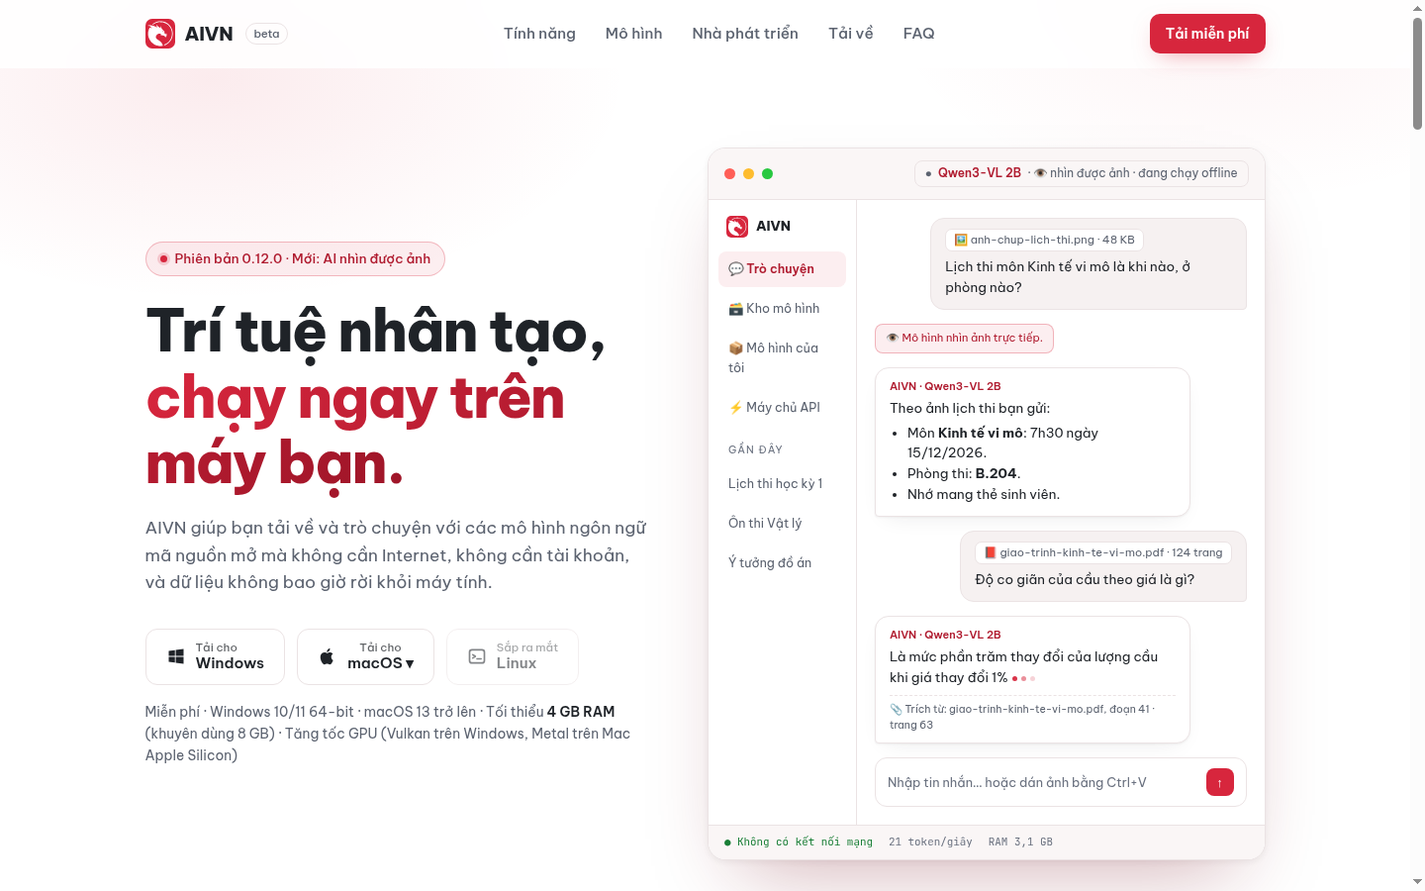
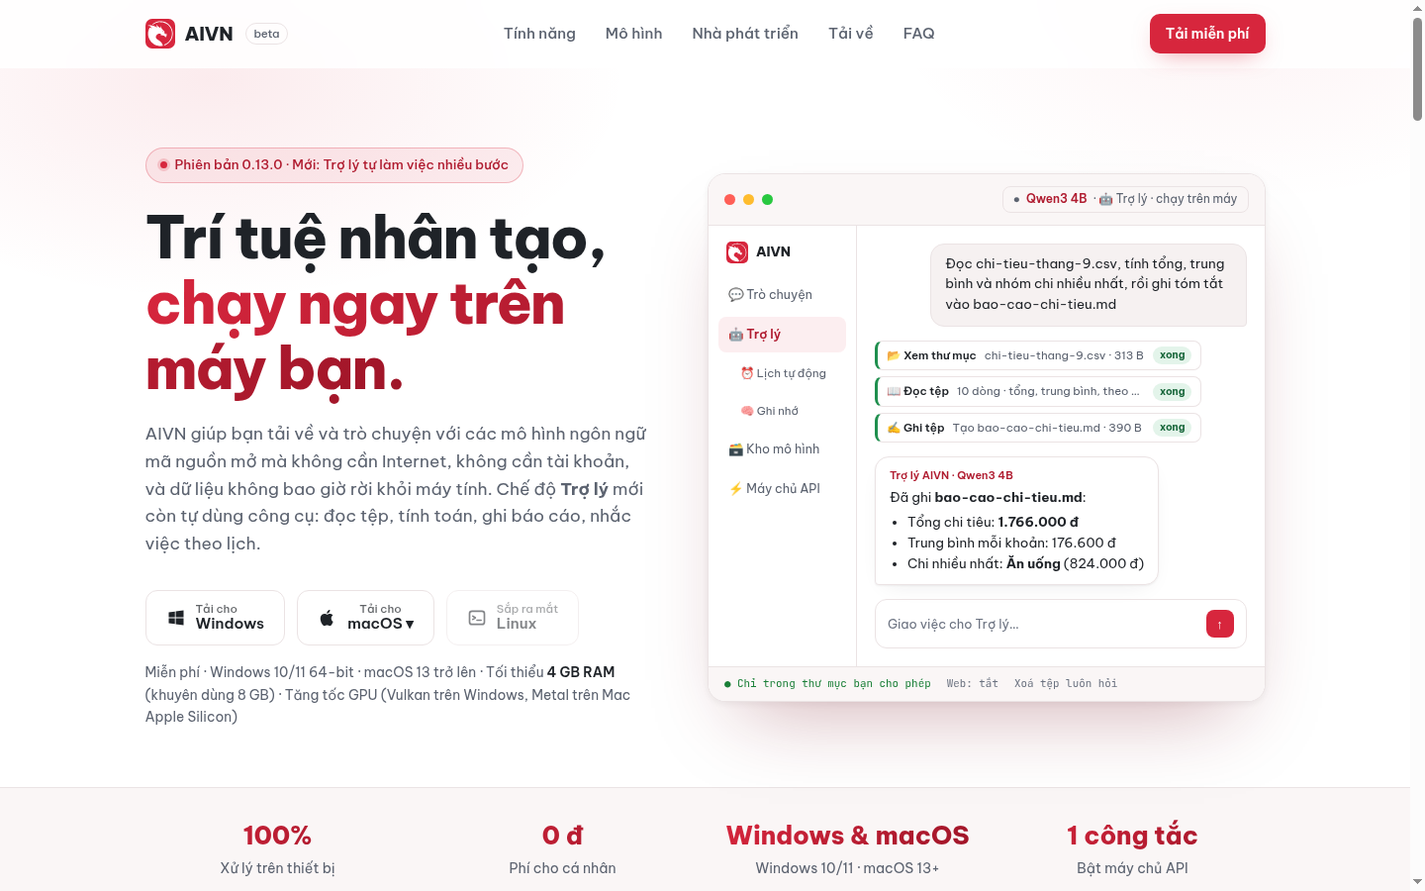
Landing page 0.13.0, memory header fix, previews

diff --git a/site/index.html b/site/index.html
@@ -116,6 +116,7 @@ header.scrolled{border-color:var(--line)}
 .strip span{color:var(--muted);font-size:.88rem}
 
 /* features */
+.new-tag{display:inline-block;vertical-align:middle;font-size:.62rem;font-weight:700;color:#fff;background:var(--accent);border-radius:99px;padding:2px 7px;margin-left:4px;letter-spacing:.02em}
 .feat-grid{display:grid;grid-template-columns:repeat(3,1fr);gap:20px;margin-top:48px}
 .feat{background:var(--card);border:1px solid var(--line);border-radius:var(--radius);padding:28px;transition:transform .3s,border-color .3s}
 .feat:hover{transform:translateY(-4px);border-color:rgba(215,38,61,.35)}
@@ -232,6 +233,12 @@ footer{border-top:1px solid var(--line);padding:56px 0 32px;background:var(--bg2
 .app-side .s-brand{display:flex;align-items:center;gap:8px;font-weight:800;font-size:.85rem;padding:2px 8px 10px}
 .app-side .s-brand img{width:22px;height:22px}
 .src-line{display:block;margin-top:6px;padding-top:5px;border-top:1px dashed var(--line);font-size:.66rem;color:var(--muted)}
+.app-side .s-item.sub{padding-left:22px;font-size:.92em}
+.steps-mock{display:flex;flex-direction:column;gap:6px;align-self:flex-start;width:88%}
+.steps-mock .st{display:flex;align-items:center;gap:8px;background:#fff;border:1px solid var(--line);border-left:3px solid #1f8f4e;border-radius:8px;padding:5px 9px;font-size:.72rem}
+.steps-mock .st span{font-weight:600;white-space:nowrap}
+.steps-mock .st em{font-style:normal;color:var(--muted);flex:1;overflow:hidden;text-overflow:ellipsis;white-space:nowrap}
+.steps-mock .st b{font-size:.64rem;color:#17663a;background:#e3f4ea;border-radius:99px;padding:1px 7px}
 .ocr-note{align-self:flex-start;font-size:.7rem;color:var(--accent-ink);background:var(--accent-soft);border:1px solid rgba(215,38,61,.3);border-radius:8px;padding:5px 10px;max-width:86%}
 a.inline,.ans a{color:var(--accent-ink);text-decoration:underline}
 .cta .dl-btn:not(.detected):not([aria-disabled=true]):not(.soon){border-color:var(--accent);color:var(--accent-ink)}
@@ -275,9 +282,9 @@ a.inline,.ans a{color:var(--accent-ink);text-decoration:underline}
 <section class="hero">
   <div class="wrap hero-grid">
     <div>
-      <span class="badge"><span class="dot"></span>Phiên bản 0.12.0 · Mới: AI nhìn được ảnh</span>
+      <span class="badge"><span class="dot"></span>Phiên bản 0.13.0 · Mới: Trợ lý tự làm việc nhiều bước</span>
       <h1>Trí tuệ nhân tạo,<br><span class="grad-text">chạy ngay trên máy bạn.</span></h1>
-      <p class="lead">AIVN giúp bạn tải về và trò chuyện với các mô hình ngôn ngữ mã nguồn mở mà không cần Internet, không cần tài khoản, và dữ liệu không bao giờ rời khỏi máy tính.</p>
+      <p class="lead">AIVN giúp bạn tải về và trò chuyện với các mô hình ngôn ngữ mã nguồn mở mà không cần Internet, không cần tài khoản, và dữ liệu không bao giờ rời khỏi máy tính. Chế độ <b>Trợ lý</b> mới còn tự dùng công cụ: đọc tệp, tính toán, ghi báo cáo, nhắc việc theo lịch.</p>
       <div class="dl-row" id="tai-ve">
         <a href="AIVN-Setup.exe" download class="btn dl-btn" data-os="windows" title="Tải bộ cài AIVN cho Windows 10/11 (64-bit, ~233 MB)">
           <svg width="20" height="20" viewBox="0 0 24 24" fill="currentColor"><path d="M3 5.5 10.5 4.5v7H3zM11.5 4.3 21 3v8.5h-9.5zM3 12.5h7.5v7L3 18.5zM11.5 12.5H21V21l-9.5-1.3z"/></svg>
@@ -303,34 +310,34 @@ a.inline,.ans a{color:var(--accent-ink);text-decoration:underline}
     </div>
 
     <!-- mock app window -->
-    <div class="app" aria-label="Minh họa giao diện ứng dụng AIVN">
+    <div class="app" aria-label="Minh họa chế độ Trợ lý của AIVN">
       <div class="app-bar"><i></i><i></i><i></i>
-        <span class="model-pill">● <b>Qwen3-VL 2B</b> · 👁 nhìn được ảnh · đang chạy offline</span>
+        <span class="model-pill">● <b>Qwen3 4B</b> · 🤖 Trợ lý · chạy trên máy</span>
       </div>
       <div class="app-body">
         <aside class="app-side">
           <div class="s-brand"><img src="favicon.svg" alt="">AIVN</div>
-          <div class="s-item on">💬 Trò chuyện</div>
+          <div class="s-item">💬 Trò chuyện</div>
+          <div class="s-item on">🤖 Trợ lý</div>
+          <div class="s-item sub">⏰ Lịch tự động</div>
+          <div class="s-item sub">🧠 Ghi nhớ</div>
           <div class="s-item">🗃 Kho mô hình</div>
-          <div class="s-item">📦 Mô hình của tôi</div>
           <div class="s-item">⚡ Máy chủ API</div>
-          <div class="s-title">Gần đây</div>
-          <div class="s-item">Lịch thi học kỳ 1</div>
-          <div class="s-item">Ôn thi Vật lý</div>
-          <div class="s-item">Ý tưởng đồ án</div>
         </aside>
         <div class="app-chat">
-          <div class="msg u"><span class="att-chip">🖼 anh-chup-lich-thi.png · 48 KB</span>Lịch thi môn Kinh tế vi mô là khi nào, ở phòng nào?</div>
-          <div class="ocr-note">👁 Mô hình nhìn ảnh trực tiếp.</div>
-          <div class="msg a"><span class="who">AIVN · Qwen3-VL 2B</span>Theo ảnh lịch thi bạn gửi:
-            <ul><li>Môn <b>Kinh tế vi mô</b>: 7h30 ngày 15/12/2026.</li><li>Phòng thi: <b>B.204</b>.</li><li>Nhớ mang thẻ sinh viên.</li></ul>
+          <div class="msg u">Đọc chi-tieu-thang-9.csv, tính tổng, trung bình và nhóm chi nhiều nhất, rồi ghi tóm tắt vào bao-cao-chi-tieu.md</div>
+          <div class="steps-mock">
+            <div class="st"><span>📂 Xem thư mục</span><em>chi-tieu-thang-9.csv · 313 B</em><b>xong</b></div>
+            <div class="st"><span>📖 Đọc tệp</span><em>10 dòng · tổng, trung bình, theo nhóm</em><b>xong</b></div>
+            <div class="st"><span>✍ Ghi tệp</span><em>Tạo bao-cao-chi-tieu.md · 390 B</em><b>xong</b></div>
           </div>
-          <div class="msg u"><span class="att-chip">📕 giao-trinh-kinh-te-vi-mo.pdf · 124 trang</span>Độ co giãn của cầu theo giá là gì?</div>
-          <div class="msg a"><span class="who">AIVN · Qwen3-VL 2B</span>Là mức phần trăm thay đổi của lượng cầu khi giá thay đổi 1%<span class="typing"><span></span><span></span><span></span></span><span class="src-line">📎 Trích từ: giao-trinh-kinh-te-vi-mo.pdf, đoạn 41 · trang 63</span></div>
-          <div class="app-input">Nhập tin nhắn… hoặc dán ảnh bằng Ctrl+V<span class="send">↑</span></div>
+          <div class="msg a"><span class="who">Trợ lý AIVN · Qwen3 4B</span>Đã ghi <b>bao-cao-chi-tieu.md</b>:
+            <ul><li>Tổng chi tiêu: <b>1.766.000 đ</b></li><li>Trung bình mỗi khoản: 176.600 đ</li><li>Chi nhiều nhất: <b>Ăn uống</b> (824.000 đ)</li></ul>
+          </div>
+          <div class="app-input">Giao việc cho Trợ lý…<span class="send">↑</span></div>
         </div>
       </div>
-      <div class="app-status"><span class="ok">● Không có kết nối mạng</span><span>21 token/giây</span><span>RAM 3,1 GB</span></div>
+      <div class="app-status"><span class="ok">● Chỉ trong thư mục bạn cho phép</span><span>Web: tắt</span><span>Xoá tệp luôn hỏi</span></div>
     </div>
   </div>
 </section>
@@ -353,12 +360,15 @@ a.inline,.ans a{color:var(--accent-ink);text-decoration:underline}
       <p class="lead">Không cần biết lập trình. Mở ứng dụng, chọn mô hình, bắt đầu hỏi. Khi muốn nâng cao, mọi tùy chỉnh đều nằm trong tầm tay.</p>
     </div>
     <div class="feat-grid">
+      <div class="feat reveal"><div class="ico"><svg width="22" height="22" viewBox="0 0 24 24" fill="none" stroke="currentColor" stroke-width="2" stroke-linecap="round" stroke-linejoin="round"><rect x="4" y="7" width="16" height="12" rx="3"/><path d="M12 3v4M9 12h.01M15 12h.01M9 16h6"/></svg></div><h3>Trợ lý tự làm nhiều bước <span class="new-tag">Mới</span></h3><p>Giao việc, Trợ lý tự chọn công cụ: máy tính, ngày giờ, đọc PDF/DOCX/CSV, ghi tệp, chạy JavaScript trong hộp cát (Python nếu máy có). Mỗi bước hiện thành thẻ để bạn xem công cụ, đầu vào và kết quả; có nút Dừng. Chạy hoàn toàn bằng mô hình trên máy, hợp nhất với Qwen3 4B/8B hoặc Gemma 3 4B trở lên.</p></div>
+      <div class="feat reveal"><div class="ico"><svg width="22" height="22" viewBox="0 0 24 24" fill="none" stroke="currentColor" stroke-width="2" stroke-linecap="round" stroke-linejoin="round"><path d="M12 3 4 6v6c0 4.5 3.4 8.3 8 9 4.6-.7 8-4.5 8-9V6z"/><path d="m9 12 2 2 4-4"/></svg></div><h3>An toàn theo mặc định <span class="new-tag">Mới</span></h3><p>Trợ lý chỉ đọc và ghi trong những thư mục bạn cho phép. Xoá hoặc ghi đè tệp luôn hỏi bạn bằng hộp thoại tiếng Việt, và xoá chỉ chuyển vào Thùng rác. Tìm kiếm web (DuckDuckGo, Wikipedia) chỉ chạy khi bạn bật “Cho phép truy cập mạng”, mọi địa chỉ đã mở đều được ghi lại.</p></div>
+      <div class="feat reveal"><div class="ico"><svg width="22" height="22" viewBox="0 0 24 24" fill="none" stroke="currentColor" stroke-width="2" stroke-linecap="round" stroke-linejoin="round"><circle cx="12" cy="13" r="8"/><path d="M12 9v4l2.5 2.5M5 3 2 6M19 3l3 3"/></svg></div><h3>Ghi nhớ và Lịch tự động <span class="new-tag">Mới</span></h3><p>Nói “hãy nhớ…”, Trợ lý ghi lại và dùng ở các cuộc trò chuyện sau; trang Ghi nhớ cho bạn xem, sửa, xoá. Lịch tự động nhắc việc hoặc giao việc cho Trợ lý một lần, hằng ngày, hằng tuần, hiện thông báo của hệ điều hành và lưu kết quả. Có thể chạy nền trong khay hệ thống.</p></div>
       <div class="feat reveal"><div class="ico"><svg width="22" height="22" viewBox="0 0 24 24" fill="none" stroke="currentColor" stroke-width="2" stroke-linecap="round" stroke-linejoin="round"><path d="M12 3v12m0 0-4-4m4 4 4-4M4 19h16"/></svg></div><h3>Kho mô hình: mọi GGUF trên Hugging Face</h3><p>Tìm trực tiếp các kho GGUF công khai trên Hugging Face, sắp xếp theo lượt tải, mới nhất hoặc lượt thích, kèm 29 gợi ý đã kiểm tra sẵn. AIVN gợi ý bản lượng tử Q4_K_M, báo mô hình có vừa RAM máy bạn không, và gắn nhãn “Nhìn được ảnh” cho mô hình có tệp thị giác. Tải có hàng đợi, tạm dừng và tải tiếp được.</p></div>
       <div class="feat reveal"><div class="ico"><svg width="22" height="22" viewBox="0 0 24 24" fill="none" stroke="currentColor" stroke-width="2" stroke-linecap="round" stroke-linejoin="round"><path d="M2 12s3.6-7 10-7 10 7 10 7-3.6 7-10 7S2 12 2 12z"/><circle cx="12" cy="12" r="3"/></svg></div><h3>Mô hình nhìn được ảnh</h3><p>Dán ảnh bằng Ctrl+V / Cmd+V hoặc kéo thả, mô hình thị giác như Qwen3-VL, Qwen2.5-VL, Gemma 3 4B hay SmolVLM xem trực tiếp bức ảnh: mô tả hình vẽ, đọc biểu đồ, giải thích ảnh chụp màn hình. AIVN tự tải kèm tệp thị giác (mmproj) và chạy bằng llama.cpp ngay trên máy.</p></div>
       <div class="feat reveal"><div class="ico"><svg width="22" height="22" viewBox="0 0 24 24" fill="none" stroke="currentColor" stroke-width="2" stroke-linecap="round" stroke-linejoin="round"><path d="M14 3H6a2 2 0 0 0-2 2v14a2 2 0 0 0 2 2h12a2 2 0 0 0 2-2V9z"/><path d="M14 3v6h6M8 14h8M8 18h5"/></svg></div><h3>Hỏi đáp tài liệu dài, có ghi nguồn</h3><p>Gửi PDF, DOCX, TXT/MD/CSV hay tệp mã nguồn (tối đa 20 MB). AIVN chia tài liệu thành đoạn, tìm theo ý nghĩa bằng mô hình BGE-M3 chạy trên máy, chỉ đưa đoạn liên quan cho mô hình và ghi “Trích từ: tệp, đoạn n” dưới câu trả lời. Hỏi tiếp không cần gửi lại tệp.</p></div>
       <div class="feat reveal"><div class="ico"><svg width="22" height="22" viewBox="0 0 24 24" fill="none" stroke="currentColor" stroke-width="2" stroke-linecap="round" stroke-linejoin="round"><rect x="3" y="5" width="18" height="14" rx="2"/><path d="M7 9h10M7 13h6"/></svg></div><h3>Đọc chữ trong ảnh, không cần mạng</h3><p>Mô hình chỉ có chữ vẫn dùng được ảnh: AIVN đọc chữ trong ảnh chụp màn hình, lịch thi, hoá đơn bằng OCR tiếng Việt và tiếng Anh ngay trên máy, rồi ghi rõ phần nào là chữ đọc từ ảnh.</p></div>
       <div class="feat reveal"><div class="ico"><svg width="22" height="22" viewBox="0 0 24 24" fill="none" stroke="currentColor" stroke-width="2" stroke-linecap="round" stroke-linejoin="round"><path d="M21 12a8 8 0 0 1-11.6 7.1L4 20l1-4.6A8 8 0 1 1 21 12z"/></svg></div><h3>Trò chuyện riêng tư</h3><p>Lịch sử lưu ngay trên máy. Tùy chỉnh lời nhắc hệ thống, nhiệt độ, độ dài ngữ cảnh, có nút Dừng khi trả lời quá dài và nút sao chép câu trả lời.</p></div>
-      <div class="feat reveal"><div class="ico"><svg width="22" height="22" viewBox="0 0 24 24" fill="none" stroke="currentColor" stroke-width="2" stroke-linecap="round" stroke-linejoin="round"><path d="m8 9-4 3 4 3M16 9l4 3-4 3M14 5l-4 14"/></svg></div><h3>Máy chủ API tương thích OpenAI</h3><p>Biến máy tính thành máy chủ AI nội bộ: /v1/chat/completions (gửi được ảnh cho mô hình thị giác), /v1/models và /v1/embeddings để tạo vector cho ứng dụng tìm kiếm của bạn. Thư viện quen thuộc kết nối được ngay, chỉ cần đổi địa chỉ.</p></div>
+      <div class="feat reveal"><div class="ico"><svg width="22" height="22" viewBox="0 0 24 24" fill="none" stroke="currentColor" stroke-width="2" stroke-linecap="round" stroke-linejoin="round"><path d="m8 9-4 3 4 3M16 9l4 3-4 3M14 5l-4 14"/></svg></div><h3>Máy chủ API tương thích OpenAI</h3><p>Biến máy tính thành máy chủ AI nội bộ: /v1/chat/completions (gọi hàm qua tools, JSON theo schema, gửi được ảnh cho mô hình thị giác), /v1/models và /v1/embeddings để tạo vector cho ứng dụng tìm kiếm của bạn. Thư viện quen thuộc kết nối được ngay, chỉ cần đổi địa chỉ.</p></div>
       <div class="feat reveal"><div class="ico"><svg width="22" height="22" viewBox="0 0 24 24" fill="none" stroke="currentColor" stroke-width="2" stroke-linecap="round" stroke-linejoin="round"><rect x="4" y="4" width="16" height="16" rx="2"/><path d="M9 9h6v6H9zM9 1v3M15 1v3M9 20v3M15 20v3M1 9h3M1 15h3M20 9h3M20 15h3"/></svg></div><h3>Tận dụng phần cứng</h3><p>Tự dùng GPU để tăng tốc: Vulkan (NVIDIA, AMD, Intel) trên Windows, Metal trên Mac Apple Silicon. Không có GPU vẫn chạy được bằng CPU.</p></div>
       <div class="feat reveal"><div class="ico"><svg width="22" height="22" viewBox="0 0 24 24" fill="none" stroke="currentColor" stroke-width="2" stroke-linecap="round" stroke-linejoin="round"><circle cx="12" cy="12" r="4"/><path d="M12 2v2M12 20v2M4.9 4.9l1.4 1.4M17.7 17.7l1.4 1.4M2 12h2M20 12h2M4.9 19.1l1.4-1.4M17.7 6.3l1.4-1.4"/></svg></div><h3>Giao diện Sáng / Tối</h3><p>Giao diện đỏ–trắng dễ đọc, có chế độ Tối và Tự động theo hệ điều hành. Đổi chế độ mượt mà với hiệu ứng lan tròn, mở ứng dụng không bị nháy màu, tôn trọng thiết lập “giảm chuyển động”.</p></div>
       <div class="feat reveal"><div class="ico"><svg width="22" height="22" viewBox="0 0 24 24" fill="none" stroke="currentColor" stroke-width="2" stroke-linecap="round" stroke-linejoin="round"><path d="M21 12a9 9 0 0 1-15.5 6.2L3 16"/><path d="M3 21v-5h5"/><path d="M3 12a9 9 0 0 1 15.5-6.2L21 8"/><path d="M21 3v5h-5"/></svg></div><h3>Tự động cập nhật</h3><p>AIVN tự kiểm tra bản mới khi mở. Trên Windows chỉ cần bấm Tải về rồi Khởi động lại; trên Mac, AIVN báo có bản mới và mở trang tải về.</p></div>
@@ -449,6 +459,7 @@ a.inline,.ans a{color:var(--accent-ink);text-decoration:underline}
       <p class="lead">Bật công tắc trong mục “Máy chủ API” và gọi mô hình qua định dạng tương thích OpenAI Chat Completions. Chỉ cần đổi base URL sang localhost.</p>
       <ul class="checks">
         <li>Ba endpoint: /v1/chat/completions, /v1/models và /v1/embeddings</li>
+        <li>Gọi hàm kiểu OpenAI: "tools", "tool_choice" (auto, none, required, tên hàm), trả "tool_calls"; "response_format" json_schema ép đầu ra đúng JSON</li>
         <li>Hỗ trợ trả kết quả dạng luồng (streaming, "stream": true) và gửi ảnh (image_url) cho mô hình nhìn ảnh</li>
         <li>Gọi được từ Python (thư viện openai), JavaScript, cURL</li>
         <li>Chạy hoàn toàn nội bộ, không cần khóa API trả phí</li>
@@ -476,7 +487,14 @@ a.inline,.ans a{color:var(--accent-ink);text-decoration:underline}
 <span class="c"># Tạo vector (embeddings) bằng BGE-M3 chạy trên máy</span>
 <span class="f">curl</span> http://localhost:1234/v1/embeddings \
   -H <span class="s">"Content-Type: application/json"</span> \
-  -d <span class="s">'{"model": "bge-m3-q8_0", "input": ["Xin chào", "Hà Nội"]}'</span></pre>
+  -d <span class="s">'{"model": "bge-m3-q8_0", "input": ["Xin chào", "Hà Nội"]}'</span>
+
+<span class="c"># Gọi hàm (tools): mô hình trả về tool_calls get_weather {"city": "Đà Nẵng"}</span>
+<span class="f">curl</span> http://localhost:1234/v1/chat/completions \
+  -H <span class="s">"Content-Type: application/json"</span> \
+  -d <span class="s">'{"messages": [{"role": "user", "content": "Thời tiết Đà Nẵng?"}],
+       "tools": [{"type": "function", "function": {"name": "get_weather",
+         "parameters": {"type": "object", "properties": {"city": {"type": "string"}}}}}]}'</span></pre>
 <pre data-pane="py"><span class="k">from</span> openai <span class="k">import</span> OpenAI
 
 client = <span class="f">OpenAI</span>(base_url=<span class="s">"http://localhost:1234/v1"</span>, api_key=<span class="s">"aivn"</span>)
@@ -514,7 +532,7 @@ console.<span class="f">log</span>(data.choices[<span class="n">0</span>].messag
         <div><b>🔒 Không đám mây</b><span>Mô hình chạy cục bộ, không cần kết nối mạng.</span></div>
         <div><b>🙈 Không theo dõi</b><span>Không thu thập nội dung trò chuyện hay tệp của bạn.</span></div>
         <div><b>✈ Dùng offline</b><span>Trên máy bay, ở quê, khi mất Wi-Fi vẫn chạy tốt.</span></div>
-        <div><b>🗂 Bạn làm chủ</b><span>Xoá cuộc trò chuyện, đổi mô hình bất cứ lúc nào.</span></div>
+        <div><b>🗂 Bạn làm chủ</b><span>Xoá cuộc trò chuyện, ghi nhớ, đổi mô hình bất cứ lúc nào. Trợ lý chỉ vào mạng khi bạn bật.</span></div>
       </div>
     </div>
   </div>
@@ -530,7 +548,9 @@ console.<span class="f">log</span>(data.choices[<span class="n">0</span>].messag
     <div class="faq">
       <div class="qa reveal"><button aria-expanded="false">AIVN có miễn phí không?<span class="pm">+</span></button><div class="ans"><p>Có. AIVN miễn phí cho mục đích cá nhân và học tập. Các mô hình bạn tải về tuân theo giấy phép riêng của từng nhà phát hành.</p></div></div>
       <div class="qa reveal"><button aria-expanded="false">Máy tính của tôi cần cấu hình thế nào?<span class="pm">+</span></button><div class="ans"><p>Windows 10/11 64-bit hoặc macOS 13 trở lên (Apple Silicon hoặc Intel), tối thiểu 4 GB RAM (khuyên dùng 8 GB trở lên), khoảng 0,8 GB cho ứng dụng cộng dung lượng mô hình (thêm 0,6 GB nếu dùng tìm kiếm tài liệu BGE-M3) (từ 0,5 GB với mô hình nhỏ tới 5–12 GB với mô hình 7B–20B). AIVN hiển thị nhãn “Vừa máy / Có thể chậm / Quá lớn” cho từng bản tải. Card đồ họa hỗ trợ Vulkan (Windows) hoặc chip Apple M-series giúp trả lời nhanh hơn nhưng không bắt buộc.</p></div></div>
-      <div class="qa reveal"><button aria-expanded="false">Có thật sự dùng được khi không có Internet?<span class="pm">+</span></button><div class="ans"><p>Đúng vậy. Bạn chỉ cần mạng lúc tải ứng dụng, tải mô hình và khi kiểm tra cập nhật. Trò chuyện, nhìn ảnh, đọc tài liệu, tìm kiếm trong tài liệu, đọc chữ trong ảnh và máy chủ API đều chạy offline.</p></div></div>
+      <div class="qa reveal"><button aria-expanded="false">Có thật sự dùng được khi không có Internet?<span class="pm">+</span></button><div class="ans"><p>Đúng vậy. Bạn chỉ cần mạng lúc tải ứng dụng, tải mô hình và khi kiểm tra cập nhật. Trò chuyện, Trợ lý (trừ tìm kiếm web nếu bạn bật), Ghi nhớ, Lịch tự động, nhìn ảnh, đọc tài liệu, tìm kiếm trong tài liệu, đọc chữ trong ảnh và máy chủ API đều chạy offline.</p></div></div>
+      <div class="qa reveal"><button aria-expanded="false">Trợ lý khác gì trò chuyện thường, có an toàn không?<span class="pm">+</span></button><div class="ans"><p>Ở chế độ Trợ lý, mô hình được dùng công cụ: tính toán, xem ngày giờ, đọc và ghi tệp, chạy đoạn JavaScript ngắn trong hộp cát, ghi nhớ, tạo lời nhắc, và tìm web nếu bạn cho phép. Trợ lý chỉ thấy các thư mục bạn thêm trong Cài đặt Trợ lý; muốn xoá hay ghi đè tệp nó phải hỏi bạn và bạn có thể từ chối; xoá chỉ chuyển vào Thùng rác. Truy cập mạng mặc định tắt. Việc chạy theo lịch không bao giờ được xoá hay ghi đè tệp. Mô hình nhỏ (dưới khoảng 3–4 tỉ tham số) hay gọi sai công cụ nên AIVN sẽ cảnh báo; nên dùng Qwen3 4B/8B hoặc Gemma 3 4B trở lên. Trên máy chỉ có CPU, một việc nhiều bước có thể mất khoảng một phút.</p></div></div>
+      <div class="qa reveal"><button aria-expanded="false">Lịch tự động có chạy khi tắt AIVN không?<span class="pm">+</span></button><div class="ans"><p>Lịch chạy khi AIVN đang mở. Bật “thu xuống khay khi đóng cửa sổ” để AIVN tiếp tục chạy nền, và “mở cùng máy tính” để tự khởi động khi đăng nhập. Lần nhắc bị lỡ trong vòng 6 giờ (ví dụ máy ngủ) sẽ được chạy bù khi AIVN mở lại. Thông báo dùng hệ thống thông báo của Windows/macOS.</p></div></div>
       <div class="qa reveal"><button aria-expanded="false">Mô hình có hiểu tiếng Việt không?<span class="pm">+</span></button><div class="ans"><p>Có, ở mức khác nhau. Qwen2.5 1.5B/3B, Qwen3 4B và Arcee VyLinh 3B (tinh chỉnh riêng cho tiếng Việt) trả lời tiếng Việt khá ổn. Máy mạnh hơn có thể dùng Qwen2.5 7B hoặc Qwen3 8B. Mô hình rất nhỏ (0.5–0.6B) nhanh nhưng hay trả lời sai.</p></div></div>
       <div class="qa reveal"><button aria-expanded="false">Tôi gửi được những loại tệp nào?<span class="pm">+</span></button><div class="ans"><p>PDF có lớp chữ (bôi đen được chữ), DOCX, TXT, MD, CSV, JSON, các tệp mã nguồn phổ biến và ảnh PNG/JPG/WEBP/GIF/BMP, tối đa 20 MB mỗi tệp và 5 tệp mỗi lần. Với tài liệu dài, nếu bạn tải mô hình tìm kiếm BGE-M3 (~605 MB, một lần), AIVN chia tài liệu thành đoạn khoảng 500 token, tìm các đoạn liên quan nhất tới từng câu hỏi và ghi nguồn “Trích từ: tệp, đoạn n” dưới câu trả lời; chỉ mục được lưu riêng cho từng cuộc trò chuyện ngay trên máy. Chưa tải BGE-M3 thì AIVN tìm theo từ khoá như trước. PDF scan nhiều trang và tệp .doc cũ chưa được hỗ trợ.</p></div></div>
       <div class="qa reveal"><button aria-expanded="false">AIVN có nhìn và hiểu được ảnh không?<span class="pm">+</span></button><div class="ans"><p>Có, với mô hình gắn nhãn “Nhìn được ảnh” (Qwen3-VL 2B, Qwen2.5-VL 3B, Gemma 3 4B, SmolVLM 500M, hoặc bản GGUF có tệp mmproj trong Kho mô hình). Khi nạp mô hình này, ảnh bạn dán được gửi thẳng cho mô hình và AIVN ghi “Mô hình nhìn ảnh trực tiếp”. Với mô hình chỉ có chữ, AIVN đọc <b>chữ</b> trong ảnh bằng OCR rồi đưa cho mô hình, và ghi rõ “Mô hình hiện tại không nhìn được ảnh, AIVN đã đọc chữ trong ảnh”. Mô hình nhìn ảnh nhỏ chạy bằng CPU sẽ chậm hơn và đôi khi mô tả chưa chính xác. Trên Windows, chế độ nhìn ảnh cần Microsoft Visual C++ Redistributable 2015–2022 (x64); nếu máy chưa có, AIVN sẽ mở trang tải chính thức của Microsoft.</p></div></div>
